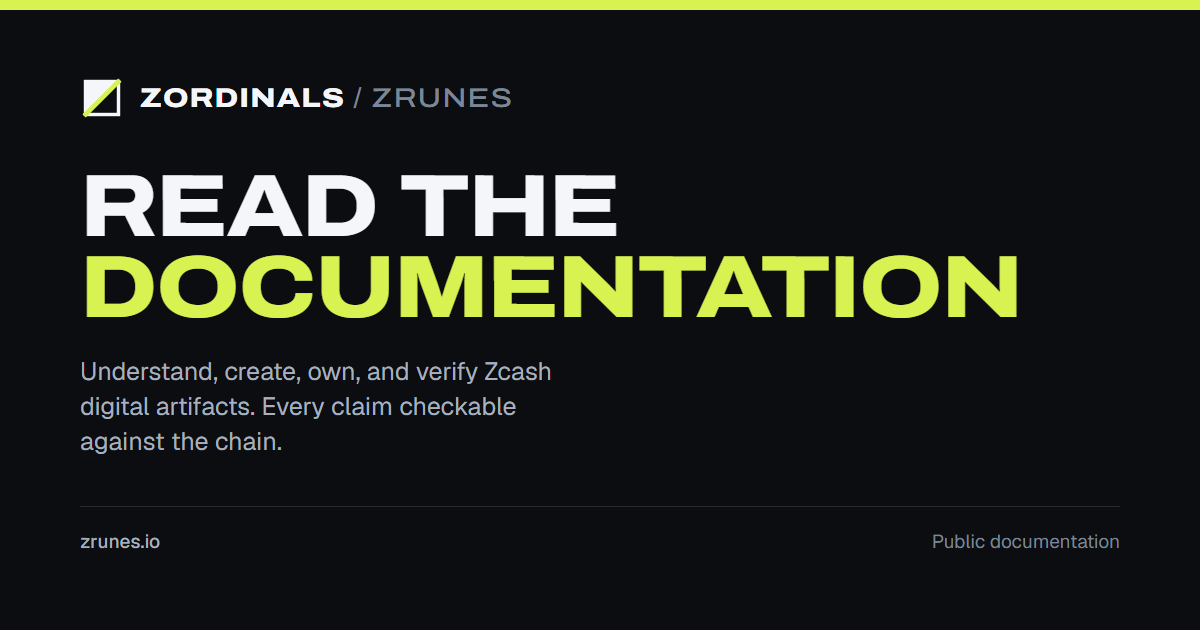
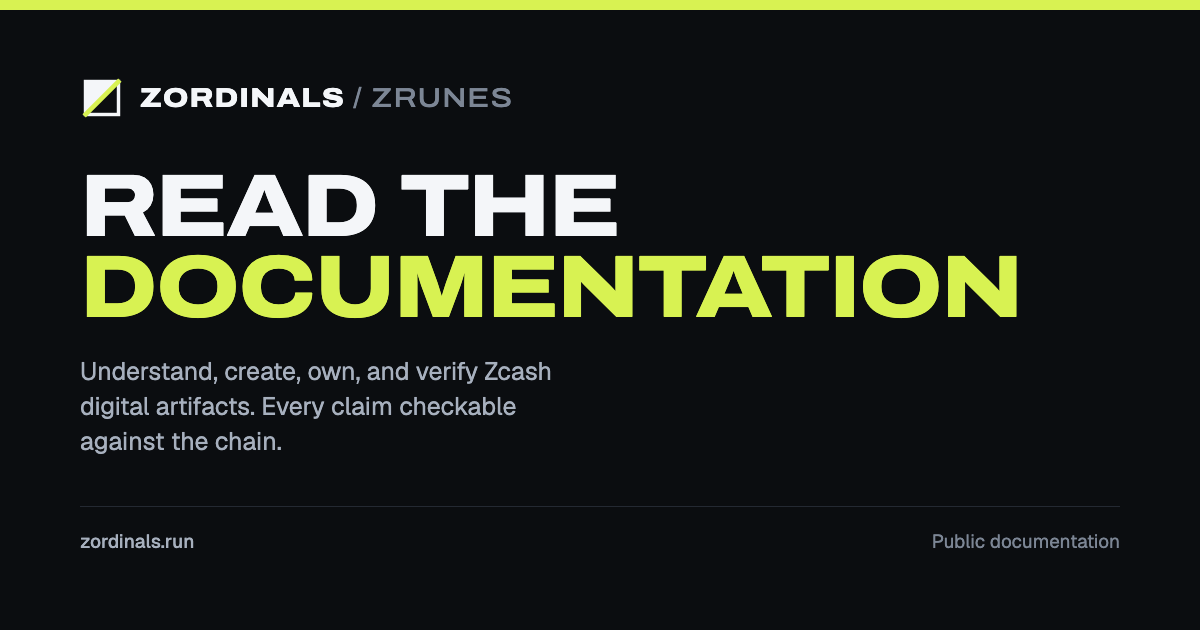
Move public documentation and status links to zordinals.run

diff --git a/src/content/docs/developers/api.md b/src/content/docs/developers/api.md
@@ -42,7 +42,7 @@ The product's indexer publishes a read-only HTTP API through the product
 domain:
 
 ```text
-https://zrunes.io/idx/zcash-metaprotocols
+https://zordinals.run/idx/zcash-metaprotocols
 ```
 
 - **Network:** Zcash mainnet.
@@ -139,7 +139,7 @@ Some specialized reads return a structured 503 with
 Indexer status, including ZRunes activation:
 
 ```bash
-curl -s https://zrunes.io/idx/zcash-metaprotocols/status
+curl -s https://zordinals.run/idx/zcash-metaprotocols/status
 ```
 
 Expected shape (values will have moved with the chain):
@@ -169,18 +169,18 @@ Expected shape (values will have moved with the chain):
 The two newest inscriptions, then the next page:
 
 ```bash
-curl -s "https://zrunes.io/idx/zcash-metaprotocols/inscriptions?order=newest&limit=2"
+curl -s "https://zordinals.run/idx/zcash-metaprotocols/inscriptions?order=newest&limit=2"
 ```
 
 ```bash
-curl -s "https://zrunes.io/idx/zcash-metaprotocols/inscriptions?order=newest&limit=2&cursor=CURSOR_FROM_PREVIOUS_RESPONSE"
+curl -s "https://zordinals.run/idx/zcash-metaprotocols/inscriptions?order=newest&limit=2&cursor=CURSOR_FROM_PREVIOUS_RESPONSE"
 ```
 
 The same call in TypeScript, keeping exact integers exact:
 
 ```ts
 const response = await fetch(
-  'https://zrunes.io/idx/zcash-metaprotocols/inscriptions?order=newest&limit=2'
+  'https://zordinals.run/idx/zcash-metaprotocols/inscriptions?order=newest&limit=2'
 );
 if (!response.ok) throw new Error(`indexer answered ${response.status}`);
 const page = await response.json();

diff --git a/README.md b/README.md
@@ -6,11 +6,11 @@
 operators run.** Zordinals inscriptions, ZRunes, ZRC-20 tokens, and
 collections, each shown with the chain evidence behind it.
 
-**[Open the product](https://zrunes.io)** ·
-**[Read the documentation site](https://zrunes.io/docs-zerdinals-and-zrunes/)** ·
+**[Open the product](https://zordinals.run)** ·
+**[Read the documentation site](https://zordinals.run/docs-zerdinals-and-zrunes/)** ·
 **[Current status](src/content/docs/start/status.mdx)**
 
-[![The Discover page: the archive headline, live chain figures, and the newest artwork inscribed into Zcash](public/screenshots/discover-1440-dark.png)](https://zrunes.io)
+[![The Discover page: the archive headline, live chain figures, and the newest artwork inscribed into Zcash](public/screenshots/discover-1440-dark.png)](https://zordinals.run)
 
 *The live product on 2026-08-28: chain read in full, every figure from
 first-party infrastructure.*
@@ -27,7 +27,7 @@ first-party infrastructure.*
 
 People write things into the Zcash blockchain: images, text, and token
 instructions. Once written, those bytes survive as long as Zcash does.
-[zrunes.io](https://zrunes.io) is the complete record of that activity, read
+[zordinals.run](https://zordinals.run) is the complete record of that activity, read
 block by block from Universe-operated Zcash infrastructure, with no
 third-party chain service anywhere. Where the chain has not been read in
 full, the product says so; where two token rule sets disagree, it shows both

diff --git a/public/screenshots/MANIFEST.md b/public/screenshots/MANIFEST.md
@@ -5,7 +5,7 @@ can be detected and regenerated identically.
 
 | File | Product commit | URL | Viewport | Theme | Captured | Command |
 | --- | --- | --- | --- | --- | --- | --- |
-| discover-1440-dark.png | 39176f5f722f51ec13cb5d85a125af89be1e72e3 | https://zrunes.io/ | 1440x900 | dark | 2026-09-23 | Playwright chromium: goto, networkidle, 3s settle, viewport screenshot |
+| discover-1440-dark.png | f4146730103775b5043a8aa011fa338cce05c56a | https://zordinals.run/ | 1440x900 | dark | 2026-11-20 | Playwright chromium: goto, visible heading, release marker, viewport screenshot |
 
 Regeneration: run a Playwright chromium page at the listed viewport with
 `colorScheme` set to the listed theme against the listed URL, wait for

diff --git a/src/content/docs/start/what-this-is.md b/src/content/docs/start/what-this-is.md
@@ -10,7 +10,7 @@ go next. It is written for someone who has never used an inscription product.
 
 People write things into the Zcash blockchain: images, text, and small token
 instructions. Once written, those bytes are part of the chain and survive as
-long as Zcash does. [zrunes.io](https://zrunes.io) is the record of everything
+long as Zcash does. [zordinals.run](https://zordinals.run) is the record of everything
 written this way, read directly from a Zcash node its operators run, plus the
 two things a person does with a record: check it, and add to it.
 
